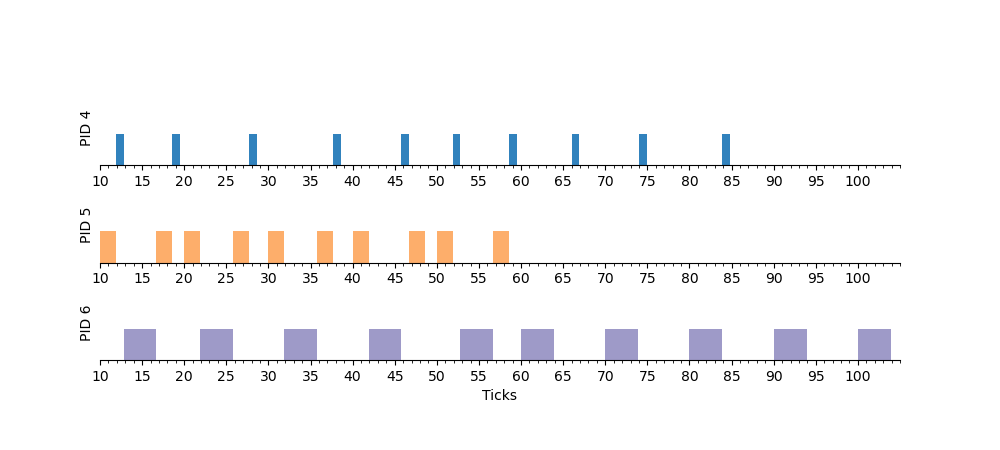
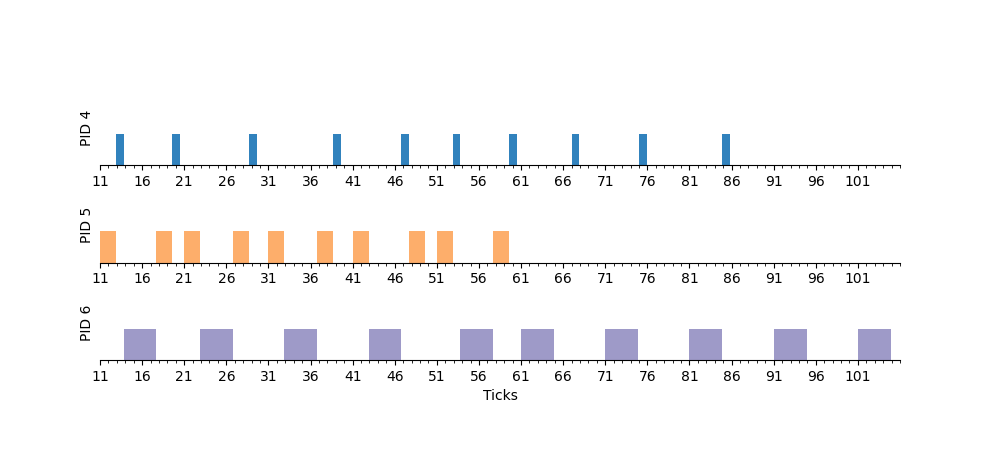
[pa] failed

diff --git a/kernel/sysproc.c b/kernel/sysproc.c
@@ -111,35 +111,46 @@ sys_sched_setattr(void)
   argint(2, &period);
 
   if (!pid) pid = myproc()->pid;
-  if (pid < 0 || runtime < 0 || period < 0 || runtime >= period) return -1;
-  if (!runtime || !period) return 0;
+  if (pid < 0 || runtime <= 0 || period <= 0 || runtime >= period) return -1;
 
   for (struct rt_proc *rtp = rt_proc; rtp < rt_proc + n_rt_proc; rtp++) {
-    if (rtp->proc->pid == pid) return -1;
+    acquire(&rtp->proc->lock);
+    if (rtp->proc->pid == pid) {
+      rtp->runtime = runtime;
+      rtp->period = period;
+      rtp->start_tick = ticks;
+      rtp->finished = 0;
+      release(&rtp->proc->lock);
+      return 0;
+    }
+    release(&rtp->proc->lock);
   }
 
   struct proc *p = 0;
   for(p = proc; p < &proc[NPROC]; p++) {
+    acquire(&p->lock);
     if (p->pid == pid) {
-      acquire(&p->lock);
       rt_proc[n_rt_proc++] = (struct rt_proc){p, runtime, period, ticks, 0};
       release(&p->lock);
       return 0;
     }
+    release(&p->lock);
   }
   return -1;
 }
 
+extern int recent_proc;
 uint64
 sys_sched_yield(void)
 {
   // printf("yield %d\n", myproc()->pid);
   for(struct rt_proc *rtp = rt_proc; rtp < rt_proc+n_rt_proc; rtp++) {
+    acquire(&rtp->proc->lock);
     if (rtp->proc == myproc()) {
-      acquire(&myproc()->lock);
       rtp->finished = 1;
-      release(&myproc()->lock);
+      recent_proc = -1;
     }
+    release(&rtp->proc->lock);
     // printf("finished: %d\n", rtp->finished);
   }
   yield();

diff --git a/kernel/proc.c b/kernel/proc.c
@@ -173,6 +173,15 @@ freeproc(struct proc *p)
   p->killed = 0;
   p->xstate = 0;
   p->state = UNUSED;
+
+  int flag = 0;
+  for(struct rt_proc *rtp = rt_proc; rtp < rt_proc + n_rt_proc; rtp++) {
+    if (rtp->proc->pid == p->pid) {
+      flag = 1;
+      n_rt_proc--;
+    }
+    if (flag) *rtp = *(rtp+1);
+  }
 }
 
 // Create a user page table for a given process, with no user memory,
@@ -378,15 +387,6 @@ exit(int status)
   wakeup(p->parent);
   
   acquire(&p->lock);
-  
-  int flag = 0;
-  for(struct rt_proc *rtp = rt_proc; rtp < rt_proc + n_rt_proc; rtp++) {
-    if (rtp->proc->pid == p->pid) {
-      flag = 1;
-      n_rt_proc--;
-    }
-    if (flag) *rtp = *(rtp+1);
-  }
 
   p->xstate = status;
   p->state = ZOMBIE;
@@ -499,7 +499,10 @@ scheduler(void)
       }
       intr_on();
 
-      if (next) cp--;
+      if (next) {
+        recent_proc = next->proc->pid;
+        cp--;
+      }
       
       p = next ? next->proc : cp;
 
@@ -515,7 +518,6 @@ scheduler(void)
 
         // Process is done running for now.
         // It should have changed its p->state before coming back.
-        recent_proc = c->proc->pid;
         c->proc = 0;
       }
       release(&p->lock);

diff --git a/user/task3.c b/user/task3.c
@@ -49,7 +49,6 @@ do_fork(int n)
     printf("%l %d starts\n", time()/100000, getpid());
     x += run_task(n);
     printf("%l %d ends\n", time()/100000, getpid());
-    sleep(2);
     sched_yield();
   }
   return x;
@@ -69,8 +68,8 @@ main(int argc, char *argv[])
       if ((pid3 = fork()))
       {
         sched_setattr(pid1, 1, 5);
-        sched_setattr(pid2, 1, 6);
-        sched_setattr(pid3, 1, 3);
+        sched_setattr(pid2, 1, 5);
+        sched_setattr(pid3, 1, 5);
         wait(0);
         wait(0);
         wait(0);

diff --git a/graph.py b/graph.py
@@ -1,4 +1,4 @@
-#!/usr/bin/python3
+#!/opt/homebrew/anaconda3/bin/python
 
 #----------------------------------------------------------------
 #
